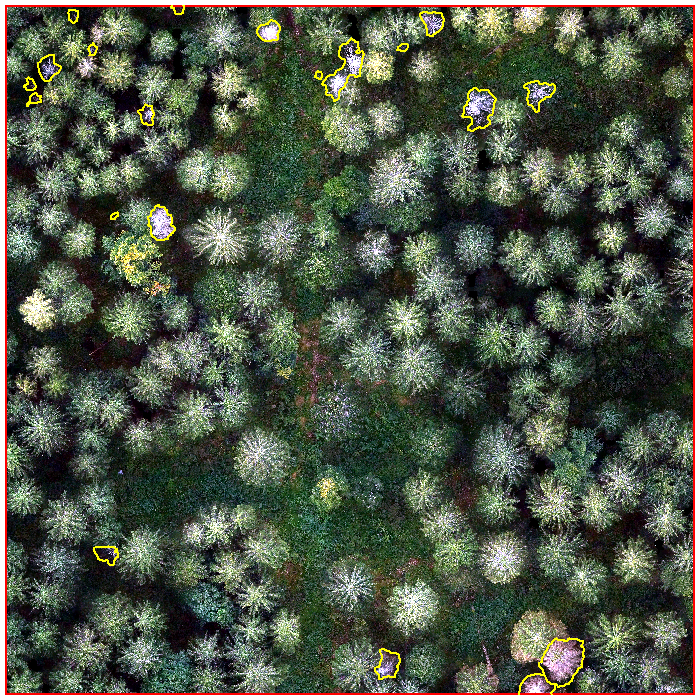
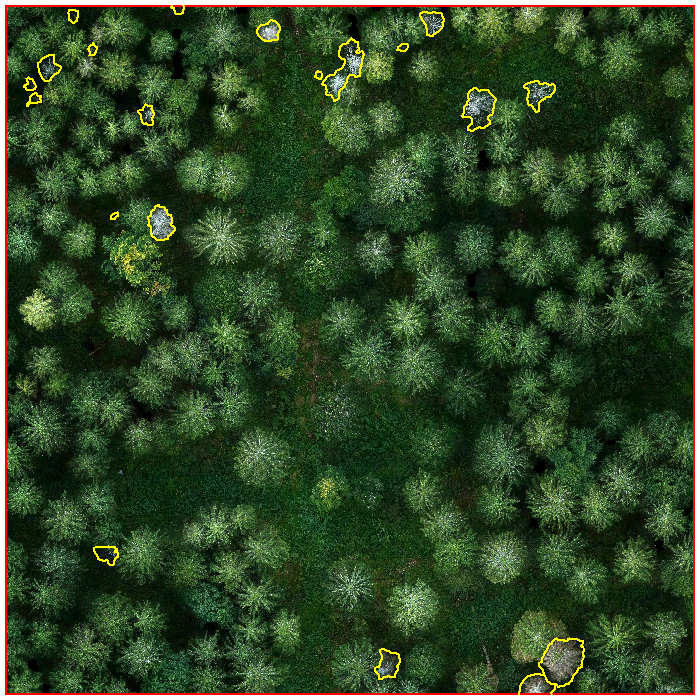
update

diff --git a/deadwood.html b/deadwood.html
@@ -425,7 +425,9 @@ The data used in this tutorial can be found <a href="https://bwstaff-my.sharepoi
 </div>
 <div id="prep" class="section level1">
 <h1>Data preparation</h1>
-<p>To begin, we first need to load our data:</p>
+<p>To begin, we first need to load the required packages and functions:</p>
+<pre class="r"><code>pkgs &lt;- c(&quot;raster&quot;, &quot;rgdal&quot;)
+sapply(pkgs, require, character.only = TRUE)</code></pre>
 <pre class="r"><code>dataDir  &lt;- &quot;C:/Users/FeSch/Desktop/TutTest/&quot;
 sites    &lt;- list.files(path = dataDir, pattern = &quot;tif&quot;, recursive = T, full.names = T)
 
@@ -437,17 +439,142 @@ AOI      &lt;- rgdal::readOGR(dsn = &quot;C:/Users/FeSch/Desktop/TutTest/sites/s
 
 # load deadwood delineation
 deadwood &lt;- rgdal::readOGR(dsn = &quot;C:/Users/FeSch/Desktop/TutTest/delineation/poly_deadwood.shp&quot;)</code></pre>
-<p>We crop the raster stack to the AOI and plot the results.</p>
-<pre class="r"><code>AOI1 &lt;- AOI[AOI$plot_no == AOI$plot_no[1], ]
+<p>We crop the raster stack to the area of interest and plot the results.</p>
+<pre class="r"><code># AOI &lt;- AOI[AOI$plot_no == AOI$plot_no[1], ]
 
-uav  &lt;- raster::crop(uav, AOI1)
+uav  &lt;- crop(uav, AOI)
 
-plotRGB(uav, stretch = &quot;lin&quot;)
-lines(AOI1, col = &quot;red&quot;, lwd = 3)
+# histogram stretch 
+q   &lt;- quantile(uav, probs = c(.001, .999))
+uav &lt;- (uav - min(q[,1])) * 255 / (max(q[,2]) - min(q[,1]))
+beginCluster()
+uav &lt;- clusterR(uav, fun = reclassify, args = list(rcl = c(-Inf,0,0, 255,Inf,255)),
+                datatype = &quot;INT1U&quot;)
+endCluster()
+
+# plot
+plotRGB(uav)
+lines(AOI, col = &quot;red&quot;, lwd = 3)
 lines(deadwood, col = &quot;yellow&quot;, lwd = 2)</code></pre>
 <p><img src="deadwood_files/figure-html/crop-and-plot.png" /></p>
 <div id="tile" class="section level3">
 <h3>Tiling</h3>
+<p>Due to memory limitations of the CPU or GPU we cannot train our CNN with the entire orthomosaic. Therefore, we first need to segment the orthomosaic into smaller tiles. For each RGB tile also the corresponding deadwood mask is required.</p>
+<pre class="r"><code>library(raster)
+
+# define kernel size
+tilesize &lt;- 512L
+
+kernelSizeX &lt;- tilesize * xres(uav)
+kernelSizeY &lt;- tilesize * yres(uav)
+
+# create sample positions
+xOffset &lt;- (ncol(uav)/1024 - floor(ncol(uav)/1024))/2 * 1024 * xres(uav)
+yOffset &lt;- (nrow(uav)/1024 - floor(nrow(uav)/1024))/2 * 1024 * yres(uav)
+    
+x &lt;- seq(extent(uav)[1] + kernelSizeX/2 + xOffset,
+         extent(uav)[2] - kernelSizeX/2 - xOffset,
+         kernelSizeX)
+y &lt;- seq(extent(uav)[3] + kernelSizeY/2 + yOffset,
+         extent(uav)[4] - kernelSizeY/2 - yOffset,
+         kernelSizeY)
+
+XYpos &lt;- expand.grid(x, y)
+XYpos &lt;- SpatialPointsDataFrame(coords = XYpos, proj4string = crs(AOI), data = XYpos)
+XYpos &lt;- XYpos[AOI,]
+
+# superimpose the sample positions on the previous plot
+points(XYpos, pch = 3, col = &quot;orange&quot;)
+
+XYpos &lt;- as.data.frame(XYpos)[,c(1,2)]
+XYpos &lt;- cbind(XYpos[,1] - kernelSizeX/2,
+               XYpos[,1] + kernelSizeX/2,
+               XYpos[,2] - kernelSizeY/2,
+               XYpos[,2] + kernelSizeY/2)</code></pre>
+<p><img src="deadwood_files/figure-html/sample-positions.png" /></p>
+<p>Prepare the binary mask.</p>
+<pre class="r"><code>bg            &lt;- AOI
+bg$species_ID &lt;- 0
+bg@data       &lt;- data.frame(species_ID = bg@data$species_ID, row.names = rownames(bg@data))
+if(!is.null(deadwood)) {
+  bg        &lt;- erase(bg, deadwood)
+  mask      &lt;- union(bg, deadwood)
+  mask$species_ID.1[!is.na(mask$species_ID.2)] &lt;- mask$species_ID.2[!is.na(mask$species_ID.2)]
+  mask@data &lt;- data.frame(species_ID = mask@data[,1])
+} else {
+  mask      &lt;- bg
+}
+
+plot(mask, col = mask$species_ID+7)</code></pre>
+<p><img src="deadwood_files/figure-html/mask-1.png" /></p>
+<pre class="r"><code>site   &lt;- paste0(&quot;S&quot;, sprintf(&quot;%03d&quot;, 1))
+outDir &lt;- &quot;C:/Users/FeSch/Desktop/TutTest/&quot;
+
+for(i in 1:nrow(XYpos)) {
+  
+  cropExt &lt;- extent(XYpos[i,])
+  
+  # crop orthomosaic
+  uavCrop &lt;- crop(uav, cropExt)
+  uavCrop &lt;- crop(uavCrop, extent(uavCrop, 1, tilesize, 1, tilesize)) # remove rounding artifacts
+  
+  # crop mask
+  polyCrop &lt;- crop(mask, cropExt)
+  
+  if(length(polyCrop) &gt; 0) { # rasterize shapefile if polygons exist 
+    polyCropR  &lt;- rasterize(polyCrop, uavCrop[[1]], field = polyCrop$species_ID)
+    
+    NAidx      &lt;- which(is.na(values(polyCropR)))
+    flagPolyNA &lt;- length(NAidx) &lt; 2500 # TRUE if NAValues exist AND no less then 2500 (50*50 pixel = 1m2) in crop
+    flagOrtho  &lt;- length(which(is.na(values(uavCrop[[1]])) == TRUE)) == 0 # TRUE if no NA in crop
+  } else {
+    flagPolyNA &lt;- flagOrtho &lt;- FALSE
+  }
+  
+  
+  if(flagOrtho &amp;&amp; flagPolyNA) {
+    
+    # fill NA values
+    if(length(NAidx) &gt; 0) {
+      
+      rows &lt;- rowFromCell(polyCropR, NAidx)
+      cols &lt;- colFromCell(polyCropR, NAidx)
+      
+      left &lt;- cols-floor(40/2); left[left &lt; 1] = 1
+      top  &lt;- rows-floor(40/2); top[top &lt; 1] = 1
+      
+      for(k in 1:length(NAidx)) {
+        vals                &lt;- getValuesBlock(polyCropR, row = top[k], nrow = 40, col = left[k], ncol = 40)
+        polyCropR[NAidx[k]] &lt;- as.numeric(names(table(vals)[1]))
+      }
+    }
+    
+    extent(uavCrop)   &lt;- extent(0, kernelSizeX, 0, kernelSizeY)
+    extent(polyCropR) &lt;- extent(0, kernelSizeX, 0, kernelSizeY)
+    
+    uavCrop   &lt;- as.array(uavCrop)
+    polyCropR &lt;- as.array(polyCropR)
+    
+    uavCrop   &lt;- magick::image_read(uavCrop / 255)
+    polyCropR &lt;- magick::image_read(polyCropR / 255)
+    
+    imgName &lt;- paste0(outDir, &quot;img/&quot;, site, &quot;_img&quot;, sprintf(&quot;%03d&quot;, i), &quot;.png&quot;)
+    mskName &lt;- paste0(outDir, &quot;msk/&quot;, site, &quot;_msk&quot;, sprintf(&quot;%03d&quot;, i), &quot;.png&quot;)
+    magick::image_write(uavCrop, format = &quot;png&quot;, path = imgName)
+    magick::image_write(polyCropR, format = &quot;png&quot;, path = mskName)
+    
+    }
+}</code></pre>
+<p>To check if everything went well, we can read some of the extracted tiles and plot them together with the mask.</p>
+<pre class="r"><code>library(raster)</code></pre>
+<pre><code>## Loading required package: sp</code></pre>
+<pre class="r"><code>img &lt;- stack(&quot;C:/Users/FeSch/Desktop/TutTest/img/S001_img297.png&quot;)
+msk &lt;- raster(&quot;C:/Users/FeSch/Desktop/TutTest/msk/S001_msk297.png&quot;)
+
+par(mfrow = c(1,2), mar = c(.5,1,.5,1))
+plotRGB(img)
+plot(as.raster(msk))</code></pre>
+<p><img src="deadwood_files/figure-html/check-tiling-1.png" width="672" /></p>
 </div>
 <div id="split" class="section level3">
 <h3>Data spliting</h3>
